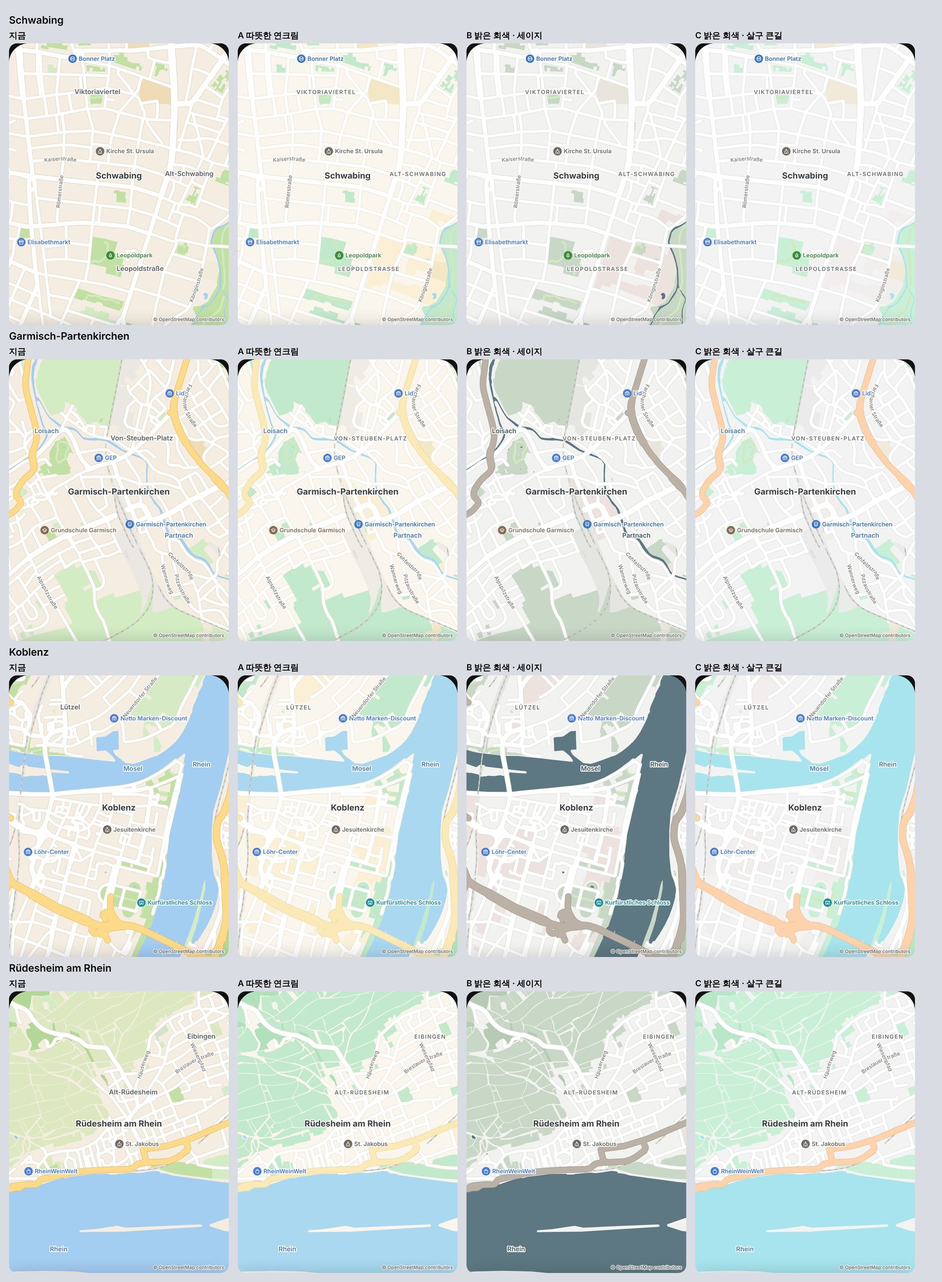
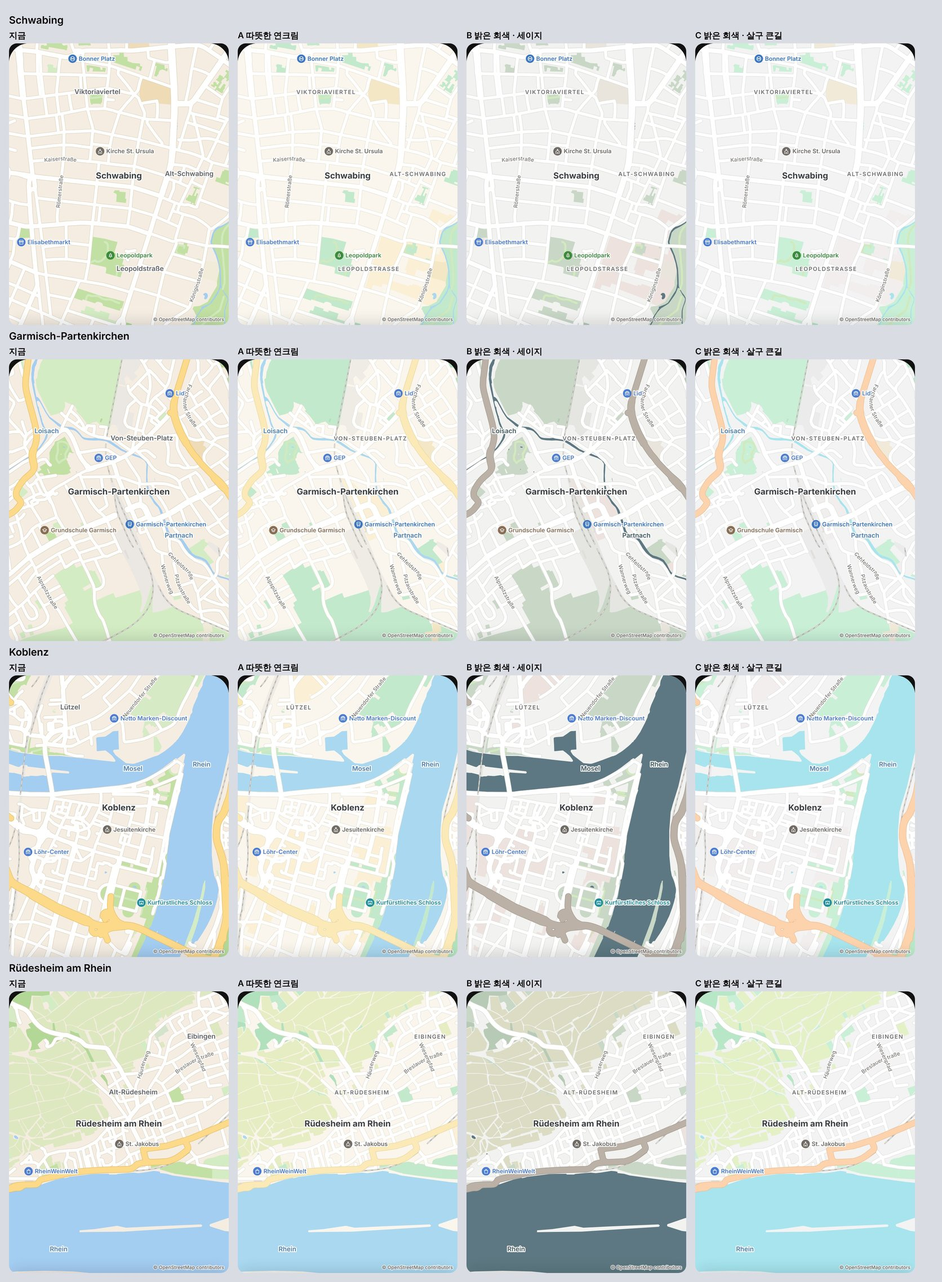
Map mockup: vineyards keep their own yellow-green in A, B and C
Claude-Session: https://claude.ai/code/session_01TBUyc4nvbfrUF2uL1hRtAL

Changed region(s): [[0.7153, 0.7487, 0.933, 0.9047], [0.2488, 0.7487, 0.4354, 0.9047]]

diff --git a/docs/mockups/phone-map/osm/osmmap.js b/docs/mockups/phone-map/osm/osmmap.js
@@ -106,11 +106,11 @@ if (GMAP) Object.assign(COVER, { grass: '#d3ecc3', allot: '#d6ebc5', orchard: '#
 // GPAL=A|B|C: the street-map manner in three looks — A warm pale cream with mint parks, B light grey with sage parks and slate water,
 // C light grey with mint parks, cyan water and apricot main roads
 const GPALS = {
-    A: { land: '#faf6ee', built: '#faf6ee', resi: '#faf6ee', shop: '#fbf0d6', works: '#efece6', railyard: '#efece6', school: '#f4e7c6', park: '#c3e9cc', forest: '#b1e0bc', water: '#a9d8f0', bld: '#efe9df', edge: '#e6dece', major: '#fbe9b8', majorEdge: '#ecd59a', plaza: '#faf6ee' },
-    B: { land: '#f2f2f0', built: '#f2f2f0', resi: '#f2f2f0', shop: '#ede2de', works: '#e5e5e2', railyard: '#e5e5e2', school: '#e9e5dd', park: '#c8d7c6', forest: '#b7cab5', water: '#5d7882', bld: '#e7e7e4', edge: '#d8d8d4', major: '#bcb1a6', majorEdge: '#a1968c', plaza: '#f2f2f0' },
-    C: { land: '#f3f3f3', built: '#f3f3f3', resi: '#f3f3f3', shop: '#f3eeee', works: '#ebebeb', railyard: '#ebebeb', school: '#f1ead9', park: '#c9f0d7', forest: '#b8e7c7', water: '#a7e4ee', bld: '#e9e9e9', edge: '#dcdcdc', major: '#fdd3ae', majorEdge: '#f3b98a', plaza: '#f3f3f3' },
+    A: { land: '#faf6ee', built: '#faf6ee', resi: '#faf6ee', shop: '#fbf0d6', works: '#efece6', railyard: '#efece6', school: '#f4e7c6', park: '#c3e9cc', forest: '#b1e0bc', water: '#a9d8f0', vine: '#e6edc3', bld: '#efe9df', edge: '#e6dece', major: '#fbe9b8', majorEdge: '#ecd59a', plaza: '#faf6ee' },
+    B: { land: '#f2f2f0', built: '#f2f2f0', resi: '#f2f2f0', shop: '#ede2de', works: '#e5e5e2', railyard: '#e5e5e2', school: '#e9e5dd', park: '#c8d7c6', forest: '#b7cab5', water: '#5d7882', vine: '#dcdcc4', bld: '#e7e7e4', edge: '#d8d8d4', major: '#bcb1a6', majorEdge: '#a1968c', plaza: '#f2f2f0' },
+    C: { land: '#f3f3f3', built: '#f3f3f3', resi: '#f3f3f3', shop: '#f3eeee', works: '#ebebeb', railyard: '#ebebeb', school: '#f1ead9', park: '#c9f0d7', forest: '#b8e7c7', water: '#a7e4ee', vine: '#e4f1c6', bld: '#e9e9e9', edge: '#dcdcdc', major: '#fdd3ae', majorEdge: '#f3b98a', plaza: '#f3f3f3' },
 };
-if (GMAP && GPALS[process.env.GPAL]) { const g = GPALS[process.env.GPAL]; Object.assign(C, g); Object.assign(COVER, { grass: g.park, allot: g.park, orchard: g.park, vine: g.park, grave: g.park, scrub: g.forest, farm: g.school }); }
+if (GMAP && GPALS[process.env.GPAL]) { const g = GPALS[process.env.GPAL]; Object.assign(C, g); Object.assign(COVER, { grass: g.park, allot: g.park, orchard: g.park, vine: g.vine, grave: g.park, scrub: g.forest, farm: g.school }); }   // vineyards keep their own yellow-green
 const { ICON, glyph, pick } = require('./icons.js');
 const COVER0 = null;
 const pxArea = ps => Math.abs(ps.reduce((s, p, i) => { const q = ps[(i + 1) % ps.length]; return s + p[0] * q[1] - q[0] * p[1]; }, 0)) / 2;
